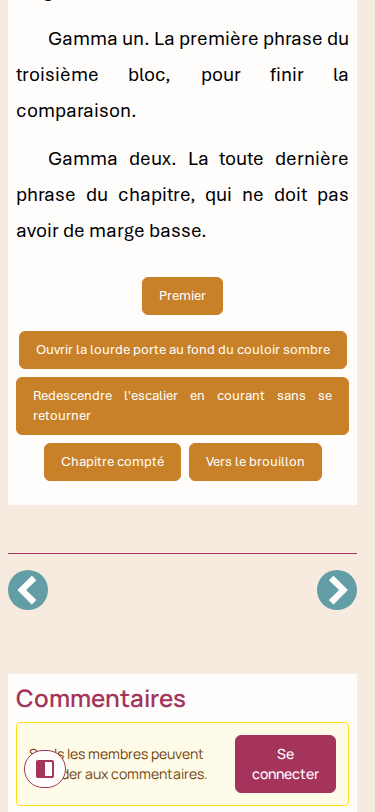
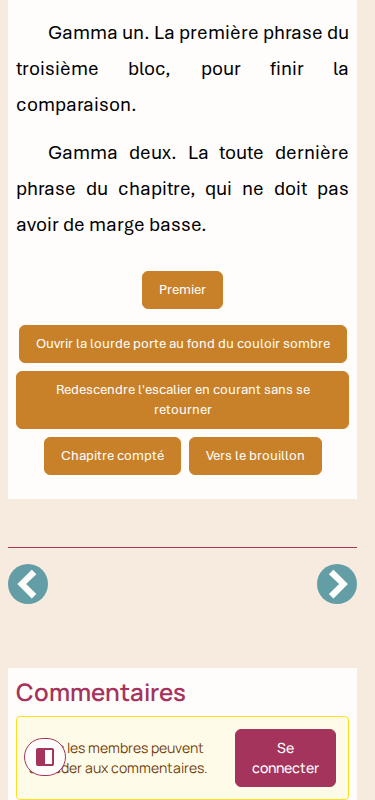
fix(story): centre wrapped chapter-choice labels on the reader page
The buttons sit inside the chapter article, which sets text-align: justify.
At 375px a label that wraps to two lines was justified: wide word gaps and
not centred. text-center on the block wrapper stops the inheritance; the
look is otherwise unchanged.

The class lives in the HTML stored at save time, so only chapters saved
after this change carry it. The block has never shipped, so no stored
content needs rewriting.

diff --git a/app/Domains/Story/Private/Resources/views/editor/chapter-choice-render.blade.php b/app/Domains/Story/Private/Resources/views/editor/chapter-choice-render.blade.php
@@ -2,7 +2,8 @@
     Stored in story_chapters.content at save time; Editor does not re-sanitize
     plugin output, so every value goes through Blade escaping.
     Never add ce-block--text here: only text blocks are quotable.
-    indent-0 cancels the article's inherited text-indent; no-underline! beats the
-    unlayered `.rich-content a` underline rule.
+    indent-0 and text-center cancel the article's inherited text-indent and
+    text-align: justify; no-underline! beats the unlayered `.rich-content a`
+    underline rule.
 --}}
-<div class="ce-block ce-block--chapter-choice not-prose indent-0 my-4 flex flex-wrap justify-center gap-2">@foreach ($links as $link)<a href="{{ $link['url'] }}" class="inline-flex items-center justify-center rounded-md px-4 py-2 text-sm font-medium surface-primary text-on-surface border-surface hover:border-surface/90 no-underline! transition ease-in-out duration-150">{{ $link['text'] }}</a>@endforeach</div>
+<div class="ce-block ce-block--chapter-choice not-prose indent-0 text-center my-4 flex flex-wrap justify-center gap-2">@foreach ($links as $link)<a href="{{ $link['url'] }}" class="inline-flex items-center justify-center rounded-md px-4 py-2 text-sm font-medium surface-primary text-on-surface border-surface hover:border-surface/90 no-underline! transition ease-in-out duration-150">{{ $link['text'] }}</a>@endforeach</div>

diff --git a/docs/Feature_Planning/multiedit-chapter-switch-block/03-plan.md b/docs/Feature_Planning/multiedit-chapter-switch-block/03-plan.md
@@ -527,7 +527,7 @@ during PLAN while the flows are fresh.
 | Reader page — disabled / all-disabled | Disabled choice absent; all-disabled block leaves no empty box or gap | ✅ spec (2 blocks rendered of 3, no empty `.ce-block`) + PHP |
 | Reader page — dead link | Choice to an unpublished chapter 404s for a guest (accepted, #9); deleted target renders nothing | ✅ spec (guest GET → 404) + PHP (deleted renders nothing) |
 | Reader page — renamed target | Old fallback title kept; link still resolves via canonical redirect | ✅ PHP only (`ChapterChoiceBlockTest` rename case; canonical 301 in `ViewChapterTest`) — nothing client-side |
-| Reader page — mobile (≈375px) | Buttons stack/wrap, tappable, no overflow | ❌ wrap, fit, 38px tall, no overflow — but labels inherit the article's `text-align: justify`: a wrapped label shows stretched word gaps and is not centred. Spec `at 375px the buttons wrap…` fails on it — `reader-guest-375.png` |
+| Reader page — mobile (≈375px) | Buttons stack/wrap, tappable, no overflow | ✅ wrap, fit, 38px tall, no overflow. Fixed at VERIFY: labels inherited the article's `text-align: justify`; `text-center` on the block wrapper now centres a wrapped label with normal word gaps. Spec `at 375px the buttons wrap…` green — `reader-guest-375.png` |
 | Reader page — dark/theme | Button colours readable on the reading surface | ✅ readable in 4 seasons × light/dark — `reader-dark-*.png`, `reader-light-spring.png`. Contrast 3.1–3.6 light, 4.4–5.5 dark: same as every `<x-shared::button>` primary (A13), below AA 4.5 in light → question for the user |
 | Author heat / quote highlights | Existing quotes in the chapter still highlight; no heat on choice labels | ✅ spec: labels copying two quoted passages, placed above them; heat and reader highlight land in the text only — `reader-author-heat.png`, `reader-confirmed-own-highlight.png` |
 | News & static-page editors (admin) | No « Choix de chapitres » in palette or "+" menu; "+" menu honours `blockTypes` | ✅ PHP (`*FormRendersMultiEditorTest`); checked in the driver — `admin-news-editor.png`, `admin-static-editor.png` |
